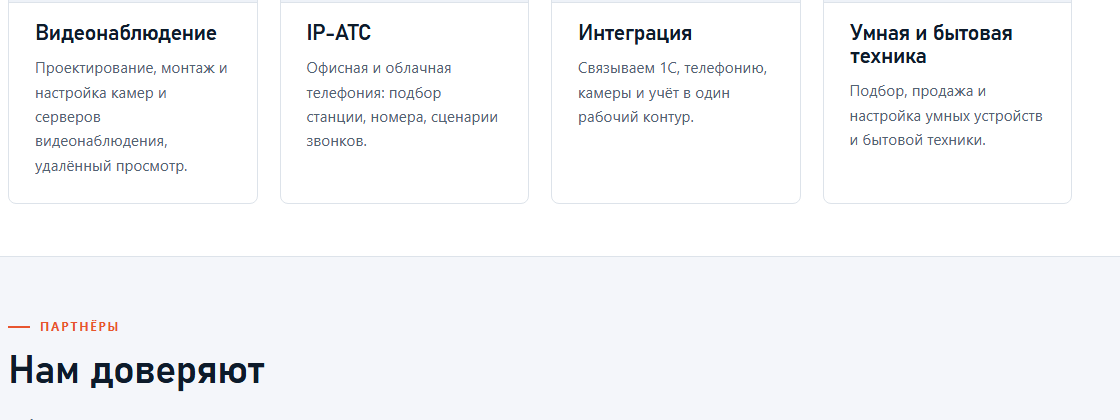
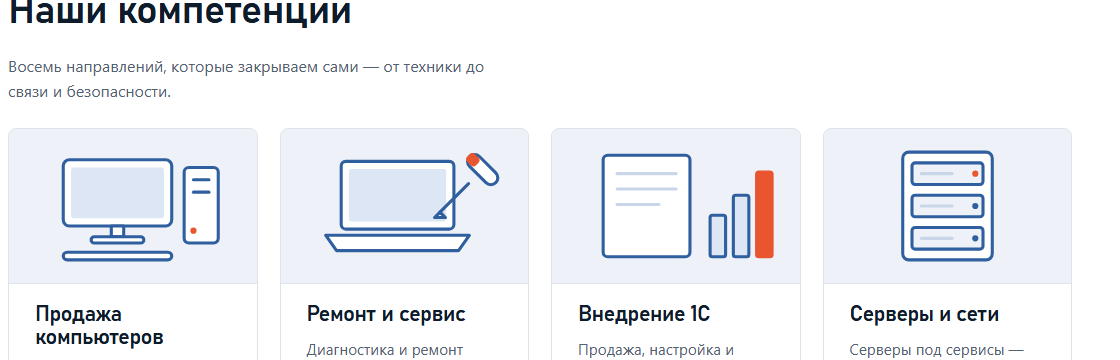
1С: продажа, настройка и размещение на серверах

diff --git a/index.html b/index.html
@@ -24,7 +24,7 @@
 
   <link rel="icon" href="assets/icon.png" type="image/png">
   <link rel="apple-touch-icon" href="assets/icon.png">
-  <link rel="stylesheet" href="assets/style.css?v=20261135">
+  <link rel="stylesheet" href="assets/style.css?v=20261136">
 
   <script type="application/ld+json">
   {
@@ -74,7 +74,7 @@
   <header class="site-header">
     <div class="container header-inner">
       <a class="brand" href="#top" aria-label="Интер-Техника-Плюс — на главную">
-        <img class="brand-logo" src="assets/logo.png?v=20261135" alt="Интер-Техника-Плюс" width="112" height="44">
+        <img class="brand-logo" src="assets/logo.png?v=20261136" alt="Интер-Техника-Плюс" width="112" height="44">
         <span class="brand-name">Интер-Техника<span class="brand-plus">+</span></span>
       </a>
 
@@ -177,7 +177,7 @@
           <article class="card">
             <img class="card-cover" src="assets/services/03.svg" alt="" width="320" height="200" loading="lazy">
             <h3>Внедрение 1С</h3>
-            <p>Продажа, настройка и полное сопровождение «1С:Предприятие».</p>
+            <p>Продажа, настройка и размещение на серверах «1С:Предприятие».</p>
           </article>
           <article class="card">
             <img class="card-cover" src="assets/services/04.svg" alt="" width="320" height="200" loading="lazy">
@@ -366,7 +366,7 @@
     <a class="btn btn--ghost" href="wa.html" target="_blank" rel="noopener">Написать</a>
   </div>
 
-  <script src="assets/app.js?v=20261135" defer></script>
-  <script src="assets/map.js?v=20261135" defer></script>
+  <script src="assets/app.js?v=20261136" defer></script>
+  <script src="assets/map.js?v=20261136" defer></script>
 </body>
 </html>

diff --git a/requisites.html b/requisites.html
@@ -8,13 +8,13 @@
   <link rel="canonical" href="https://ivu.ru/requisites.html">
   <link rel="icon" href="assets/icon.png" type="image/png">
   <link rel="apple-touch-icon" href="assets/icon.png">
-  <link rel="stylesheet" href="assets/style.css?v=20261135">
+  <link rel="stylesheet" href="assets/style.css?v=20261136">
 </head>
 <body>
   <header class="site-header">
     <div class="container header-inner">
       <a class="brand" href="index.html" aria-label="Интер-Техника-Плюс — на главную">
-        <img class="brand-logo" src="assets/logo.png?v=20261135" alt="Интер-Техника-Плюс" width="112" height="44">
+        <img class="brand-logo" src="assets/logo.png?v=20261136" alt="Интер-Техника-Плюс" width="112" height="44">
         <span class="brand-name">Интер-Техника<span class="brand-plus">+</span></span>
       </a>
       <button class="nav-toggle" type="button" aria-expanded="false" aria-controls="nav">
@@ -134,6 +134,6 @@
     </div>
   </footer>
 
-  <script src="assets/app.js?v=20261135" defer></script>
+  <script src="assets/app.js?v=20261136" defer></script>
 </body>
 </html>

diff --git a/privacy.html b/privacy.html
@@ -8,13 +8,13 @@
   <meta name="robots" content="noindex, follow">
   <link rel="icon" href="assets/icon.png" type="image/png">
   <link rel="apple-touch-icon" href="assets/icon.png">
-  <link rel="stylesheet" href="assets/style.css?v=20261135">
+  <link rel="stylesheet" href="assets/style.css?v=20261136">
 </head>
 <body>
   <header class="site-header">
     <div class="container header-inner">
       <a class="brand" href="index.html" aria-label="Интер-Техника-Плюс — на главную">
-        <img class="brand-logo" src="assets/logo.png?v=20261135" alt="Интер-Техника-Плюс" width="112" height="44">
+        <img class="brand-logo" src="assets/logo.png?v=20261136" alt="Интер-Техника-Плюс" width="112" height="44">
         <span class="brand-name">Интер-Техника<span class="brand-plus">+</span></span>
       </a>
       <button class="nav-toggle" type="button" aria-expanded="false" aria-controls="nav">
@@ -102,6 +102,6 @@
     </div>
   </footer>
 
-  <script src="assets/app.js?v=20261135" defer></script>
+  <script src="assets/app.js?v=20261136" defer></script>
 </body>
 </html>

diff --git a/404.html b/404.html
@@ -7,13 +7,13 @@
   <meta name="robots" content="noindex">
   <link rel="icon" href="assets/icon.png" type="image/png">
   <link rel="apple-touch-icon" href="assets/icon.png">
-  <link rel="stylesheet" href="assets/style.css?v=20261135">
+  <link rel="stylesheet" href="assets/style.css?v=20261136">
 </head>
 <body>
   <header class="site-header">
     <div class="container header-inner">
       <a class="brand" href="index.html" aria-label="Интер-Техника-Плюс — на главную">
-        <img class="brand-logo" src="assets/logo.png?v=20261135" alt="Интер-Техника-Плюс" width="112" height="44">
+        <img class="brand-logo" src="assets/logo.png?v=20261136" alt="Интер-Техника-Плюс" width="112" height="44">
         <span class="brand-name">Интер-Техника<span class="brand-plus">+</span></span>
       </a>
       <nav class="nav" aria-label="Основная навигация">
@@ -47,6 +47,6 @@
     </div>
   </footer>
 
-  <script src="assets/app.js?v=20261135" defer></script>
+  <script src="assets/app.js?v=20261136" defer></script>
 </body>
 </html>
